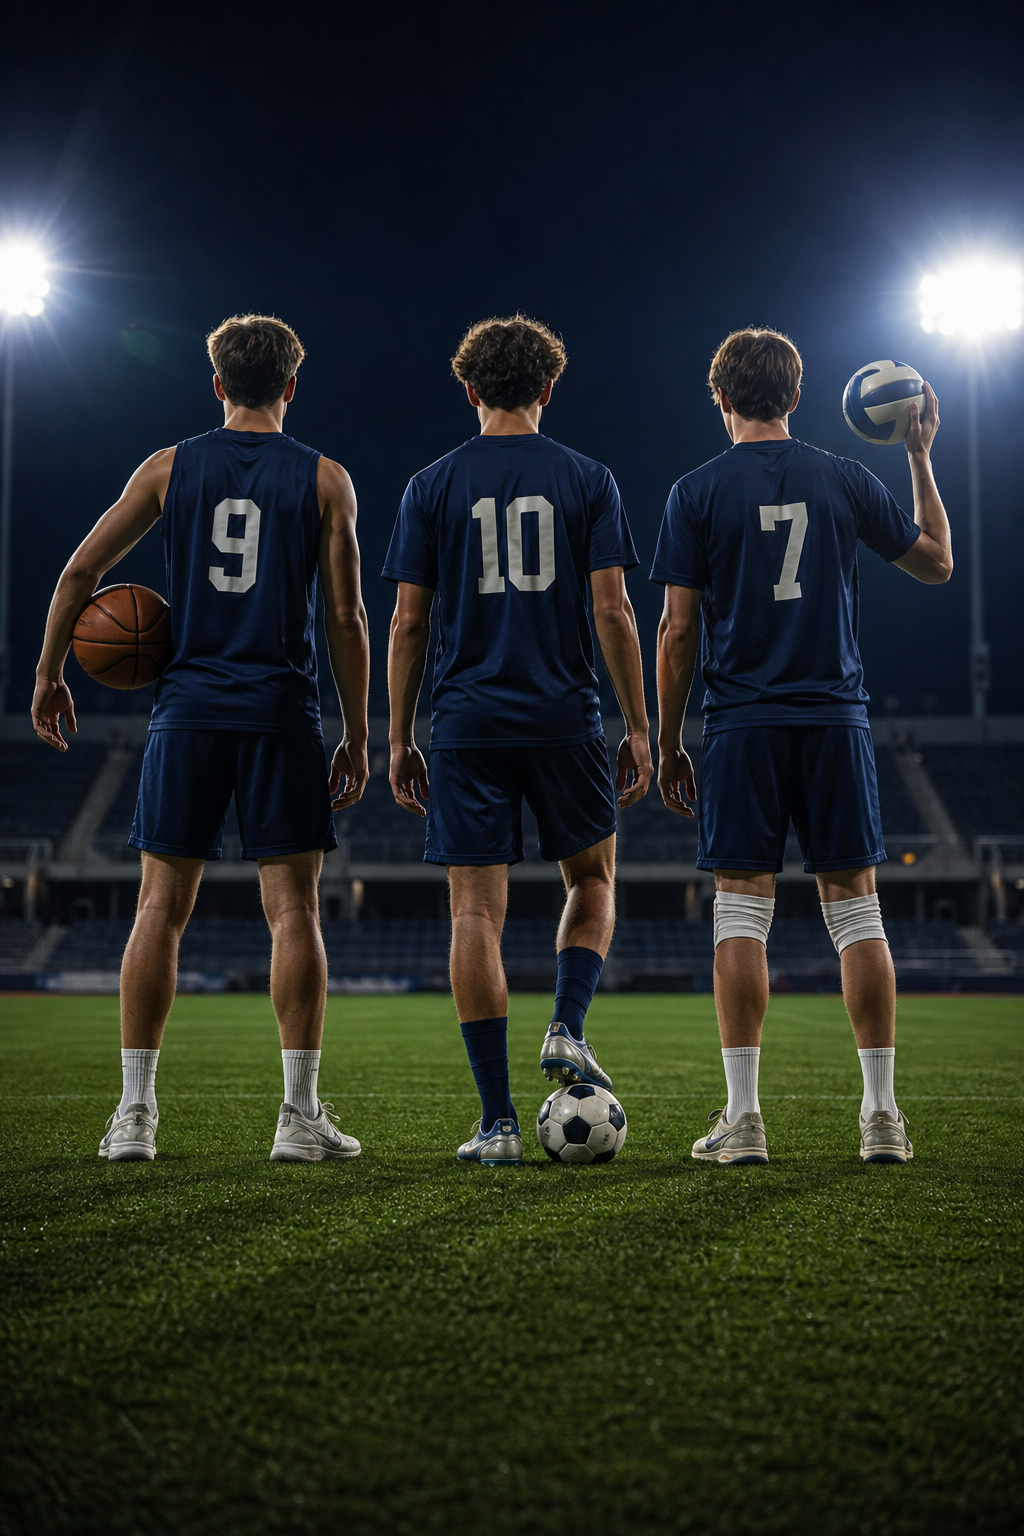
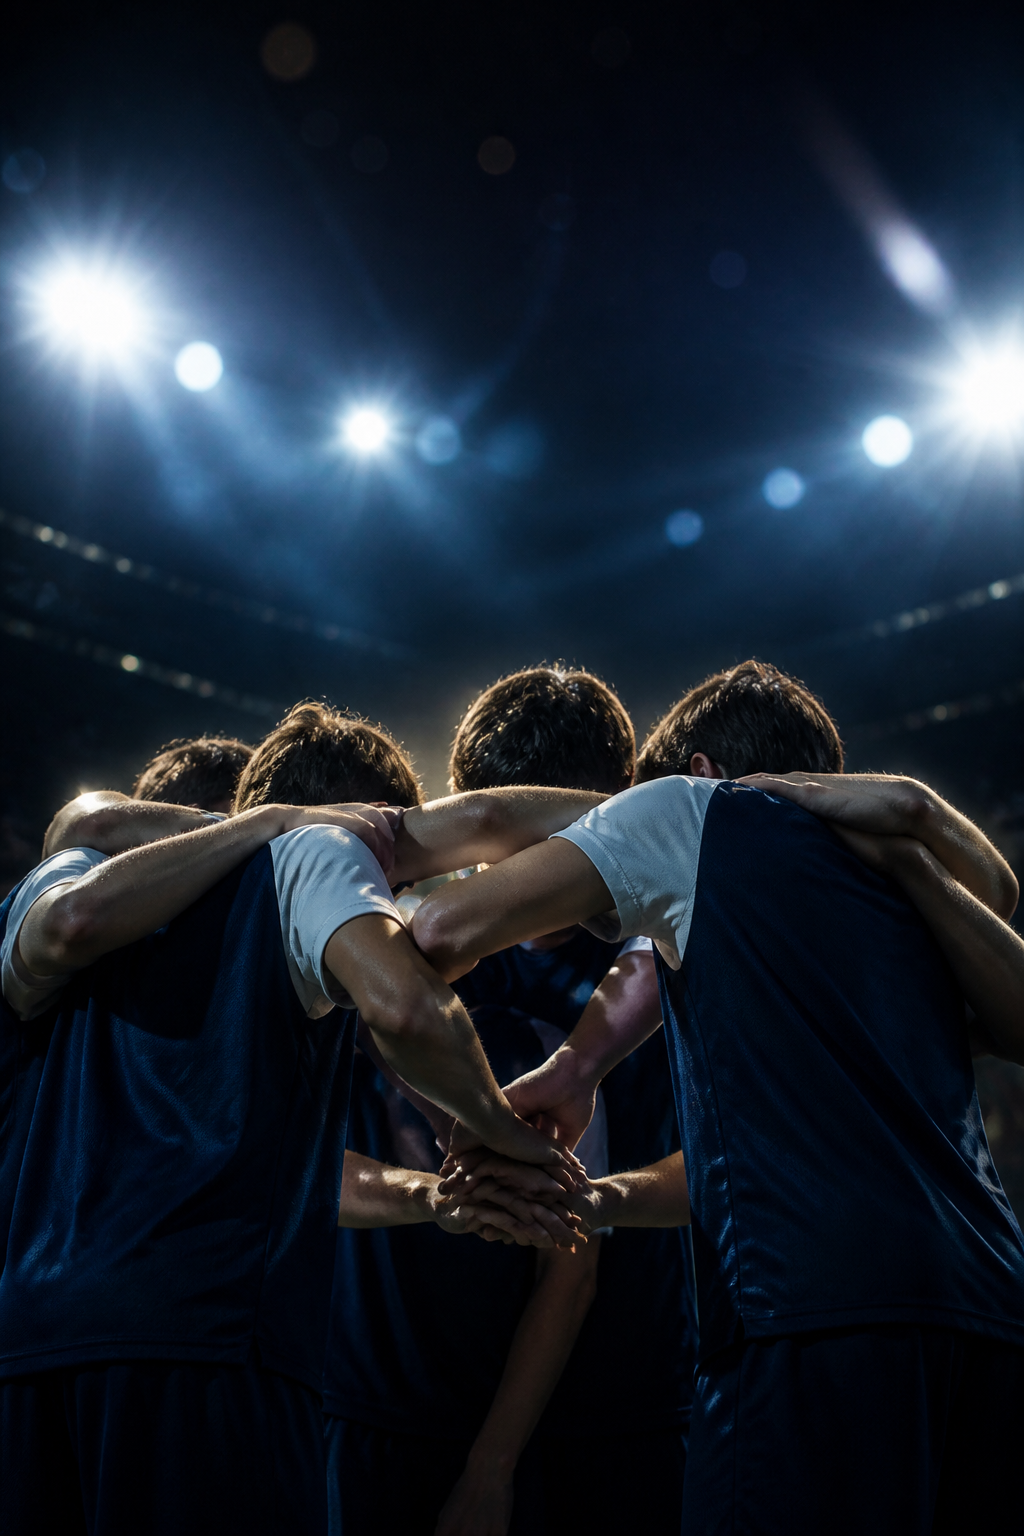
Login page

diff --git a/lib/features/auth/screens/login_screen.dart b/lib/features/auth/screens/login_screen.dart
@@ -1,3 +1,5 @@
+import 'dart:math' as math;
+
 import 'package:flutter/material.dart';
 import 'package:flutter/services.dart';
 import 'package:flutter_riverpod/flutter_riverpod.dart';
@@ -30,10 +32,11 @@ class _LoginScreenState extends ConsumerState<LoginScreen> {
         body: Stack(
           fit: StackFit.expand,
           children: [
+            const ColoredBox(color: AppColors.loginNavyDeep),
             Image.asset(
               kLoginHeroImage,
               fit: BoxFit.cover,
-              alignment: const Alignment(0, 0.05),
+              alignment: const Alignment(0, 0.18),
               errorBuilder: (_, _, _) =>
                   const ColoredBox(color: AppColors.loginNavyDeep),
             ),
@@ -42,15 +45,30 @@ class _LoginScreenState extends ConsumerState<LoginScreen> {
                 gradient: LinearGradient(
                   begin: Alignment.topCenter,
                   end: Alignment.bottomCenter,
-                  stops: [0.0, 0.16, 0.32, 0.62, 0.82, 1.0],
+                  stops: [0.0, 0.22, 0.38, 0.58, 0.78, 1.0],
                   colors: [
-                    Color(0xCC070B18),
-                    Color(0x66070B18),
-                    Color(0x14070B18),
+                    Color(0xE6070B18),
+                    Color(0x99070B18),
+                    Color(0x22070B18),
                     Color(0x33070B18),
-                    Color(0xD9070B18),
+                    Color(0xE6070B18),
                     Color(0xFF070B18),
                   ],
+                ),
+              ),
+            ),
+            const Positioned(
+              top: 0,
+              left: 0,
+              right: 0,
+              height: 280,
+              child: IgnorePointer(
+                child: Opacity(
+                  opacity: 0.22,
+                  child: CustomPaint(
+                    painter: _HexMeshPainter(),
+                    child: SizedBox.expand(),
+                  ),
                 ),
               ),
             ),
@@ -81,6 +99,15 @@ class _LoginScreenState extends ConsumerState<LoginScreen> {
                             fontWeight: FontWeight.w400,
                           ),
                         ),
+                        const SizedBox(height: 12),
+                        Container(
+                          width: 36,
+                          height: 2,
+                          decoration: BoxDecoration(
+                            color: AppColors.primaryBright,
+                            borderRadius: BorderRadius.circular(99),
+                          ),
+                        ),
                         const Spacer(),
                         _PillButton(
                           label: l10n.continueWithGoogle,
@@ -99,15 +126,18 @@ class _LoginScreenState extends ConsumerState<LoginScreen> {
                           filled: true,
                           onPressed: () => _comingSoon('Apple Sign-In'),
                         ),
-                        const SizedBox(height: 12),
+                        const SizedBox(height: 16),
+                        _OrDivider(label: l10n.orDivider),
+                        const SizedBox(height: 16),
                         _PillButton(
                           label: l10n.signInWithEmail,
-                          icon: Icon(
+                          icon: const Icon(
                             Icons.mail_outline_rounded,
                             size: 20,
-                            color: Colors.white.withValues(alpha: 0.95),
+                            color: AppColors.primaryBright,
                           ),
                           filled: false,
+                          borderColor: AppColors.primaryBright,
                           onPressed: () => _openEmailLogin(context),
                         ),
                         const SizedBox(height: 18),
@@ -355,12 +385,14 @@ class _PillButton extends StatelessWidget {
     required this.icon,
     required this.filled,
     required this.onPressed,
+    this.borderColor,
   });
 
   final String label;
   final Widget icon;
   final bool filled;
   final VoidCallback onPressed;
+  final Color? borderColor;
 
   @override
   Widget build(BuildContext context) {
@@ -374,7 +406,9 @@ class _PillButton extends StatelessWidget {
           borderRadius: radius,
           side: filled
               ? BorderSide.none
-              : BorderSide(color: Colors.white.withValues(alpha: 0.85)),
+              : BorderSide(
+                  color: borderColor ?? Colors.white.withValues(alpha: 0.85),
+                ),
         ),
         child: InkWell(
           onTap: onPressed,
@@ -439,6 +473,77 @@ class _GoogleGPainter extends CustomPainter {
       Offset(size.width * 0.92, size.height * 0.5),
       bar,
     );
+  }
+
+  @override
+  bool shouldRepaint(covariant CustomPainter oldDelegate) => false;
+}
+
+class _OrDivider extends StatelessWidget {
+  const _OrDivider({required this.label});
+
+  final String label;
+
+  @override
+  Widget build(BuildContext context) {
+    final line = Expanded(
+      child: Container(
+        height: 1,
+        color: Colors.white.withValues(alpha: 0.22),
+      ),
+    );
+    return Row(
+      children: [
+        line,
+        Padding(
+          padding: const EdgeInsets.symmetric(horizontal: 12),
+          child: Text(
+            label,
+            style: GoogleFonts.inter(
+              color: Colors.white.withValues(alpha: 0.55),
+              fontSize: 12,
+              fontWeight: FontWeight.w600,
+              letterSpacing: 1.2,
+            ),
+          ),
+        ),
+        line,
+      ],
+    );
+  }
+}
+
+class _HexMeshPainter extends CustomPainter {
+  const _HexMeshPainter();
+
+  @override
+  void paint(Canvas canvas, Size size) {
+    final paint = Paint()
+      ..style = PaintingStyle.stroke
+      ..strokeWidth = 1
+      ..color = Colors.white.withValues(alpha: 0.55);
+    const radius = 22.0;
+    final horiz = radius * 1.7320508;
+    final vert = radius * 1.5;
+    for (var row = -1; row < (size.height / vert) + 2; row++) {
+      for (var col = -1; col < (size.width / horiz) + 2; col++) {
+        final dx = col * horiz + (row.isOdd ? horiz / 2 : 0);
+        final dy = row * vert;
+        final path = Path();
+        for (var i = 0; i < 6; i++) {
+          final angle = (math.pi / 3 * i) - (math.pi / 6);
+          final x = dx + radius * math.cos(angle);
+          final y = dy + radius * math.sin(angle);
+          if (i == 0) {
+            path.moveTo(x, y);
+          } else {
+            path.lineTo(x, y);
+          }
+        }
+        path.close();
+        canvas.drawPath(path, paint);
+      }
+    }
   }
 
   @override

diff --git a/lib/shared/widgets/team_hive_logo.dart b/lib/shared/widgets/team_hive_logo.dart
@@ -263,10 +263,10 @@ class TeamHiveLogoPainter extends CustomPainter {
     required bool glow,
   }) {
     final bar = contentSize * 0.078;
-    final left = contentSize * 0.335;
-    final right = contentSize * 0.665;
-    final top = contentSize * 0.30;
-    final bottom = contentSize * 0.70;
+    final left = contentSize * 0.355;
+    final right = contentSize * 0.645;
+    final top = contentSize * 0.325;
+    final bottom = contentSize * 0.675;
     final midY = center.dy;
     final r = bar / 2;
     // Blue only on the upper part of the right stem (mockup: top half).

diff --git a/lib/l10n/app_localizations_sr.dart b/lib/l10n/app_localizations_sr.dart
@@ -370,6 +370,9 @@ class AppLocalizationsSr extends AppLocalizations {
   String get signInWithEmail => 'Prijavi se e-poštom';
 
   @override
+  String get orDivider => 'ILI';
+
+  @override
   String get newToChampHive => 'Novi na ChampHive? ';
 
   @override
@@ -1596,6 +1599,9 @@ class AppLocalizationsSrLatn extends AppLocalizationsSr {
 
   @override
   String get signInWithEmail => 'Prijavi se e-poštom';
+
+  @override
+  String get orDivider => 'ILI';
 
   @override
   String get newToChampHive => 'Novi na ChampHive? ';

diff --git a/lib/l10n/app_localizations.dart b/lib/l10n/app_localizations.dart
@@ -817,6 +817,12 @@ abstract class AppLocalizations {
   /// **'Sign in with email'**
   String get signInWithEmail;
 
+  /// No description provided for @orDivider.
+  ///
+  /// In en, this message translates to:
+  /// **'OR'**
+  String get orDivider;
+
   /// No description provided for @newToChampHive.
   ///
   /// In en, this message translates to:

diff --git a/lib/l10n/app_localizations_mk.dart b/lib/l10n/app_localizations_mk.dart
@@ -371,6 +371,9 @@ class AppLocalizationsMk extends AppLocalizations {
   String get signInWithEmail => 'Најави се со е-пошта';
 
   @override
+  String get orDivider => 'ИЛИ';
+
+  @override
   String get newToChampHive => 'Нов на ChampHive? ';
 
   @override

diff --git a/lib/l10n/app_localizations_en.dart b/lib/l10n/app_localizations_en.dart
@@ -370,6 +370,9 @@ class AppLocalizationsEn extends AppLocalizations {
   String get signInWithEmail => 'Sign in with email';
 
   @override
+  String get orDivider => 'OR';
+
+  @override
   String get newToChampHive => 'New to ChampHive? ';
 
   @override

diff --git a/lib/l10n/app_localizations_it.dart b/lib/l10n/app_localizations_it.dart
@@ -370,6 +370,9 @@ class AppLocalizationsIt extends AppLocalizations {
   String get signInWithEmail => 'Accedi con e-mail';
 
   @override
+  String get orDivider => 'O';
+
+  @override
   String get newToChampHive => 'Nuovo su ChampHive? ';
 
   @override
